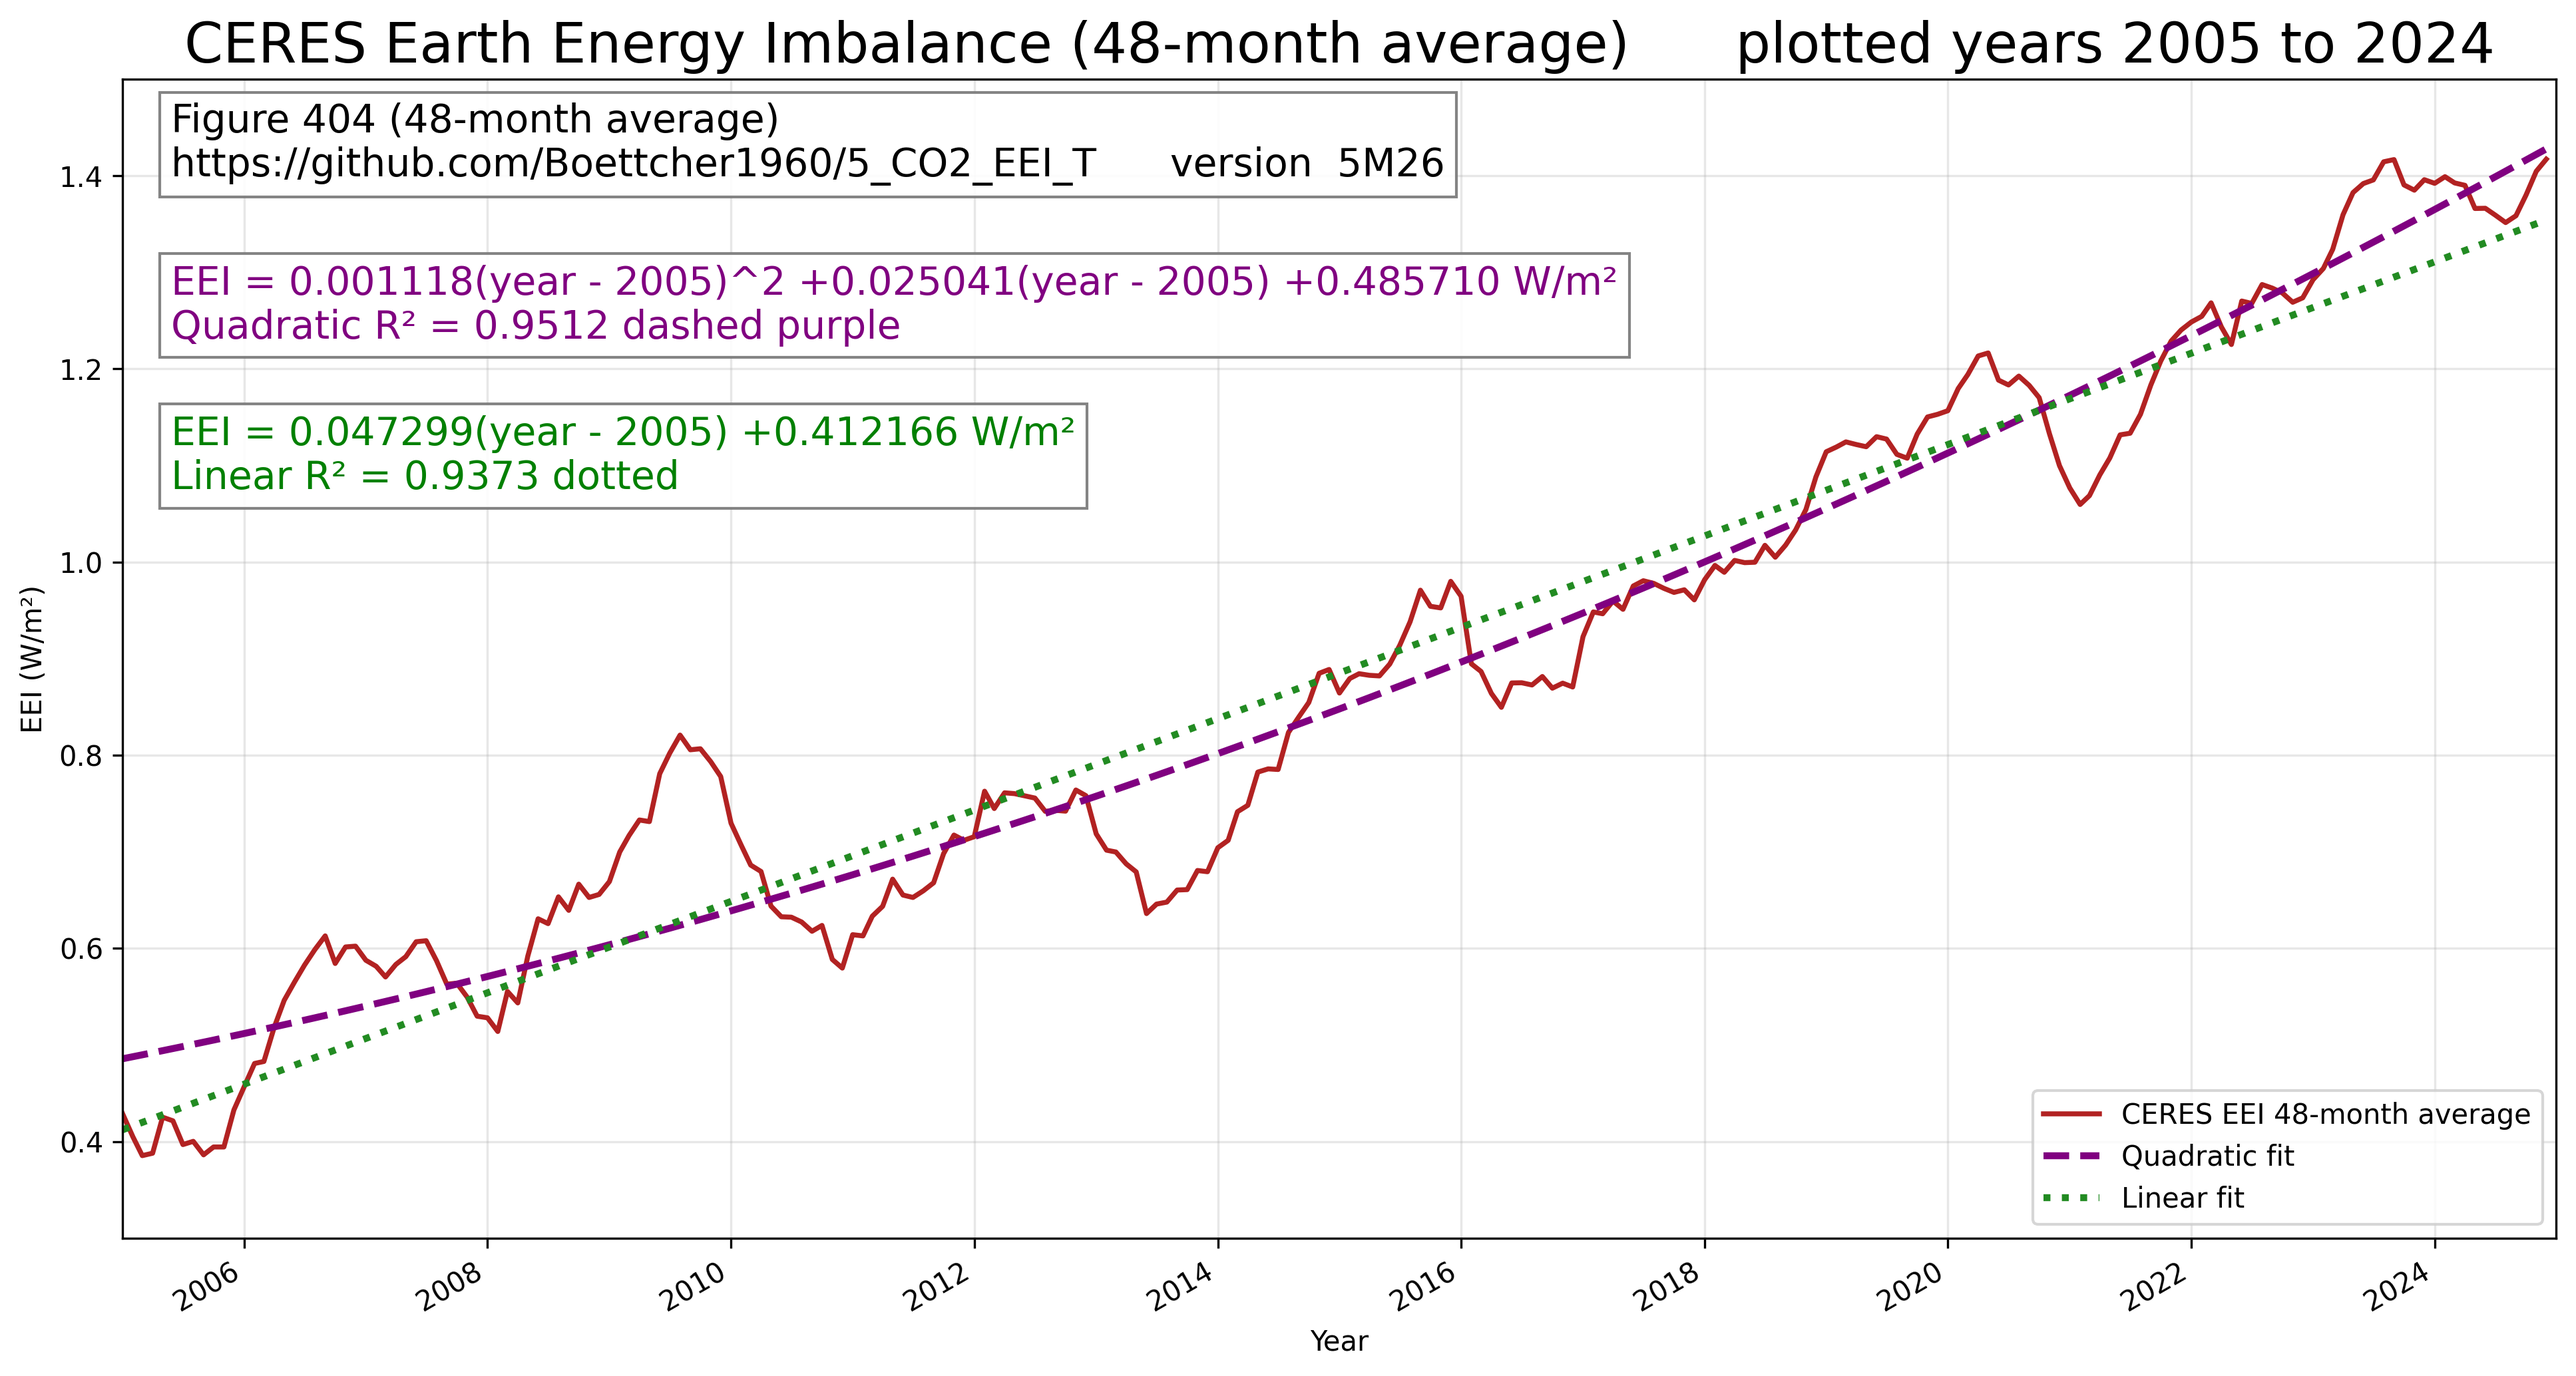
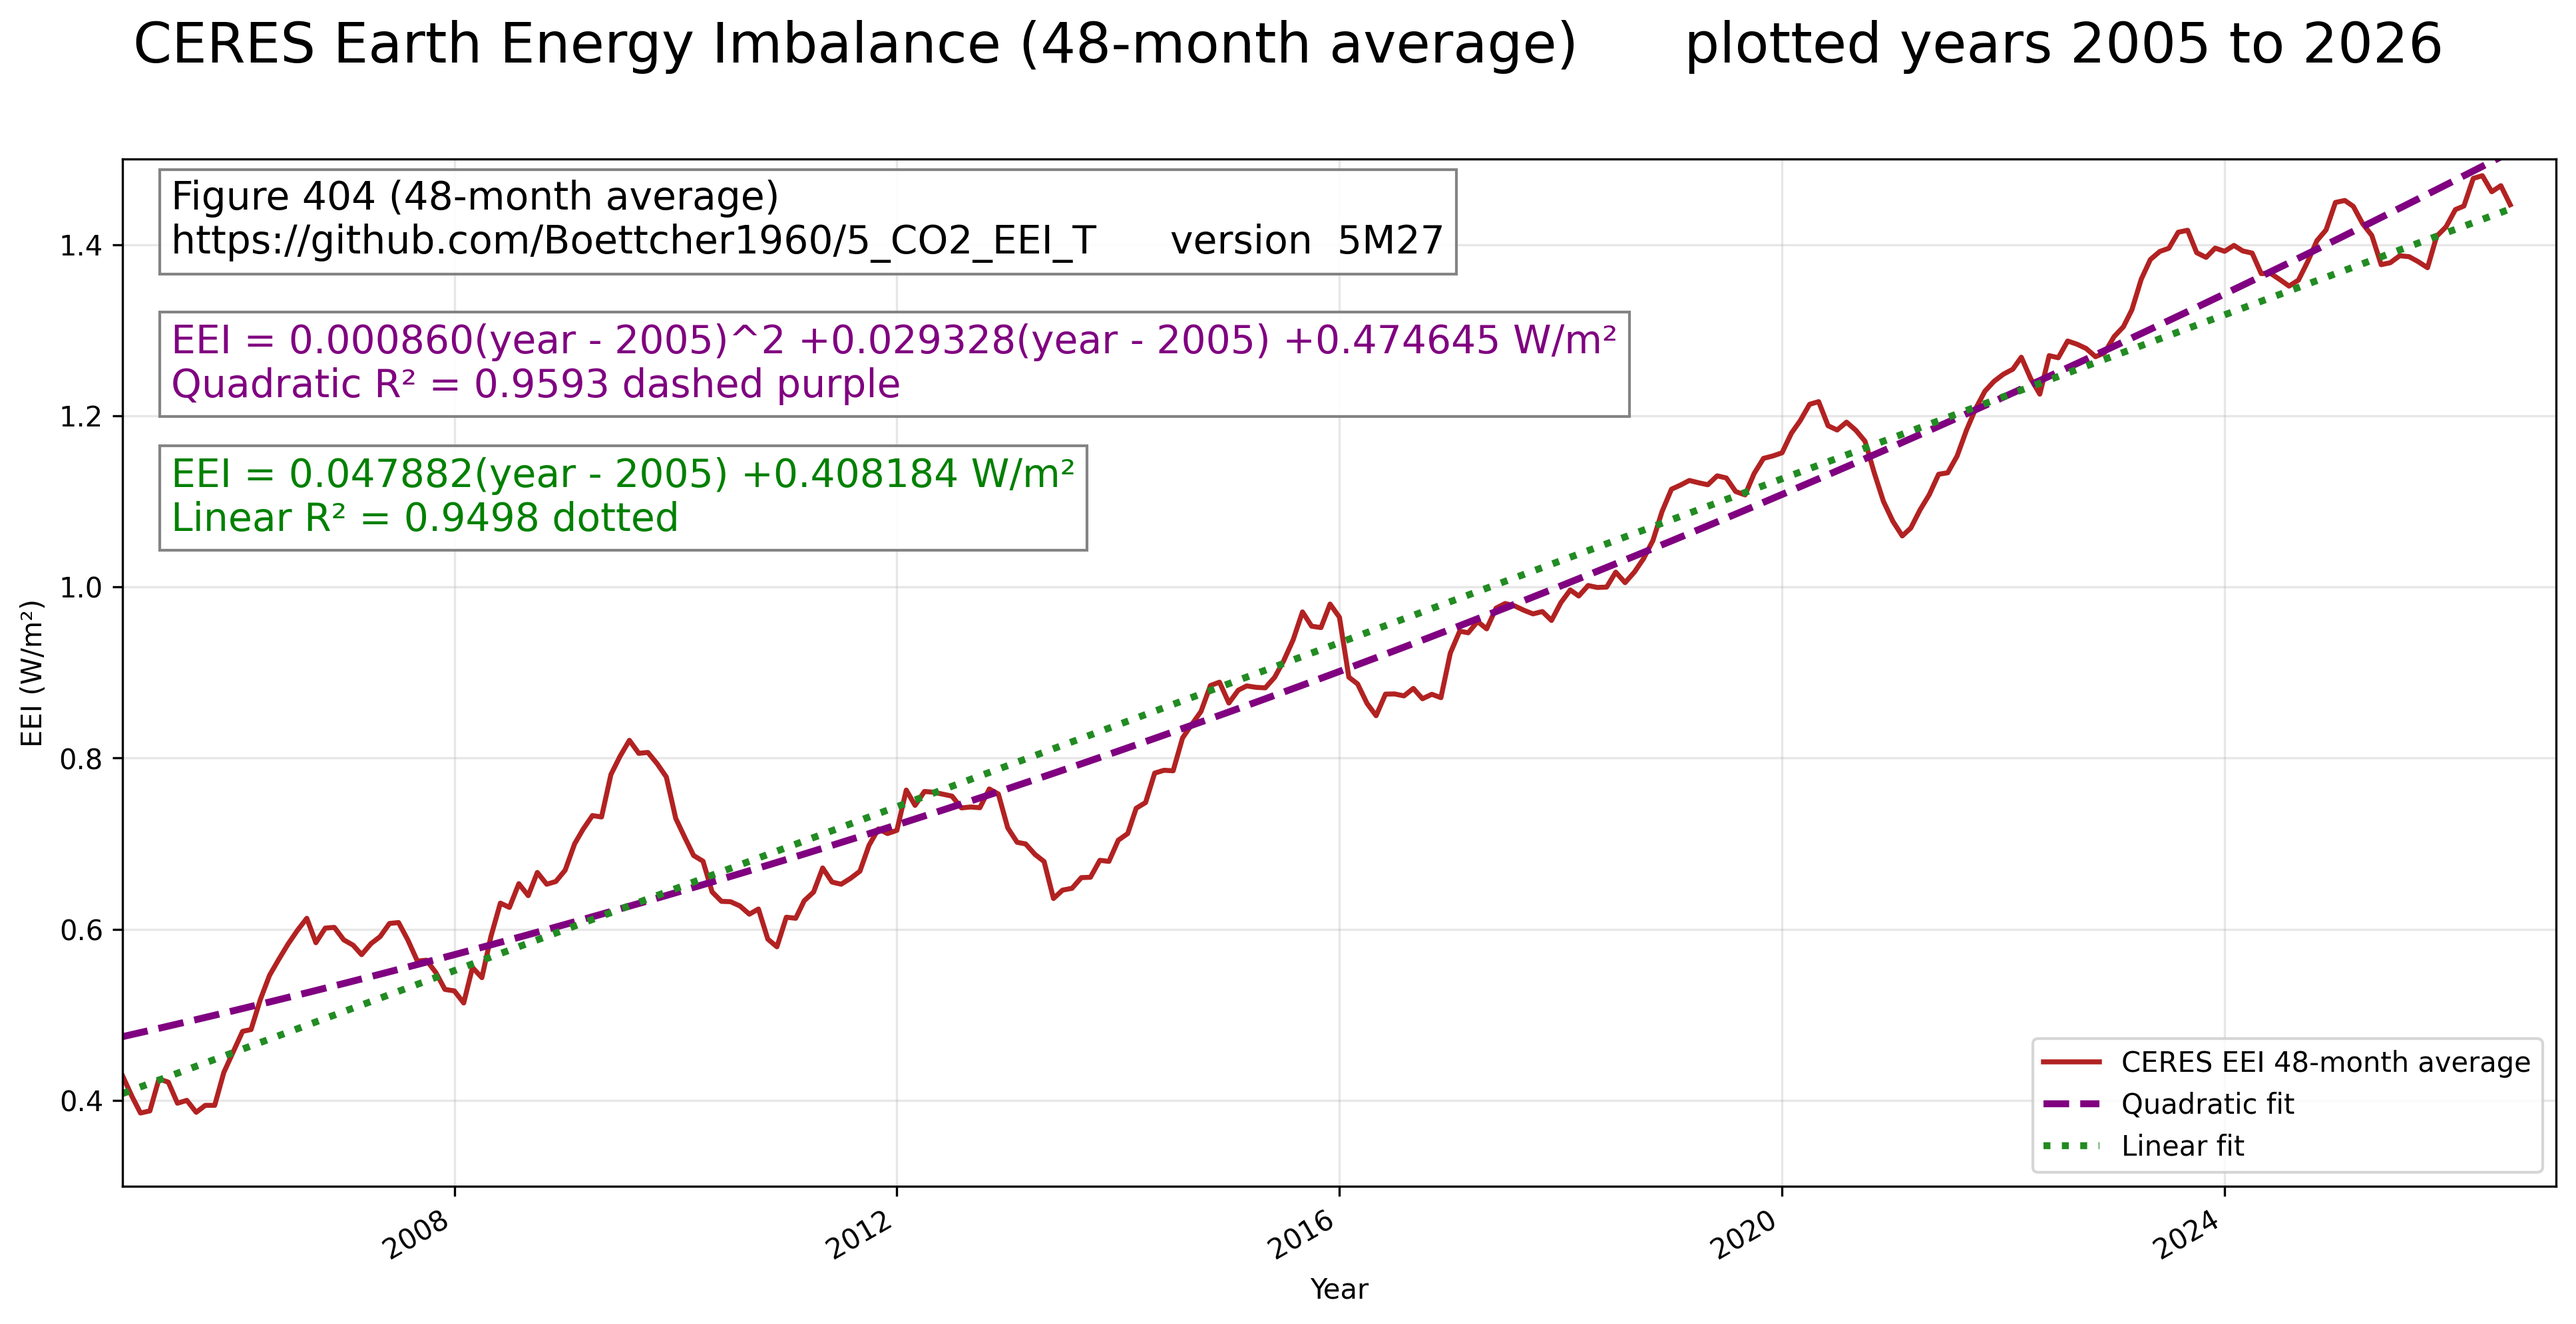
5M27

diff --git a/ceres.py b/ceres.py
@@ -688,10 +688,17 @@ def fig_404_eei_quadratic():
         color="green",
         **annotation_style,
     )
-    ax.set_title(
+    headline = (
         f"CERES Earth Energy Imbalance ({window_months}-month average) "
-        f"     plotted years {x_anf} to {x_end}",
+        f"     plotted years {x_anf} to {x_end}"
+    )
+    headline_margin_points = 30
+    figure_height_points = fig.get_figheight() * 72
+    headline_artist = fig.suptitle(
+        headline,
         fontsize=20,
+        y=1 - headline_margin_points / figure_height_points,
+        va="top",
     )
     ax.set_xlabel("Year")
     ax.set_ylabel("EEI (W/m²)")
@@ -704,6 +711,29 @@ def fig_404_eei_quadratic():
     )
     fig.autofmt_xdate()
     fig.tight_layout()
+    fig.canvas.draw()
+    renderer = fig.canvas.get_renderer()
+    headline_bbox = headline_artist.get_window_extent(renderer)
+    top_margin_points = (fig.bbox.y1 - headline_bbox.y1) * 72 / fig.dpi
+    headline_artist.set_y(
+        headline_artist.get_position()[1]
+        + (top_margin_points - headline_margin_points) / figure_height_points
+    )
+    fig.canvas.draw()
+    headline_bbox = headline_artist.get_window_extent(fig.canvas.get_renderer())
+    gap_pixels = headline_margin_points * fig.dpi / 72
+    plot_top = (
+        headline_bbox.y0 - gap_pixels - fig.bbox.y0
+    ) / fig.bbox.height
+    axes_position = ax.get_position()
+    ax.set_position(
+        (
+            axes_position.x0,
+            axes_position.y0,
+            axes_position.width,
+            plot_top - axes_position.y0,
+        )
+    )
     os.makedirs(os.path.dirname(output_path), exist_ok=True)
     fig.savefig(output_path, dpi=300, bbox_inches="tight")
 

diff --git a/main.py b/main.py
@@ -1,5 +1,5 @@
 # main.py
-v = "5M26" # make a separate new figure404 for play_61_EEI = 12 this is file work/61c_out_EEI.csv column EEI 
+v = "5M27" # make a separate new figure404 for play_61_EEI = 12 this is file work/61c_out_EEI.csv column EEI 
 #            print the quadratic equation for EEI inside figure404
 # https://github.com/Boettcher1960/5_CO2_EEI_T
 # ocean stratification https://bsky.app/profile/thomas-boettcher.bsky.social/post/3mj7zx7fzsc26

diff --git a/config.py b/config.py
@@ -282,7 +282,7 @@ cbox304Maedge="red"
 plot304_450ppm_blue_band = 0 # 0 , 1 = plot
 
 x_anf = 2005   # 2005
-x_end = 2024   # 2028
+x_end = 2026   # 2028
 
 # XLO, XHI = 125, 1500
 
